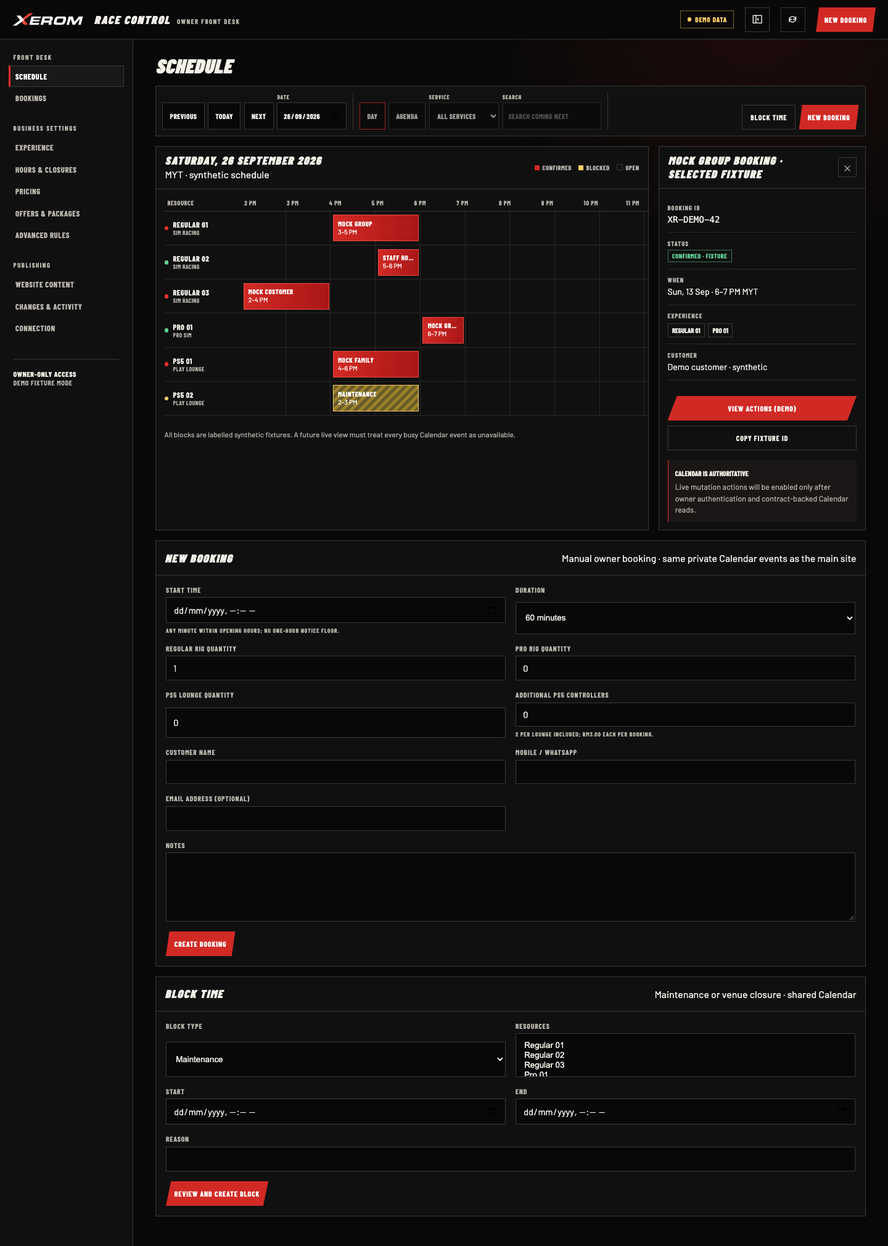
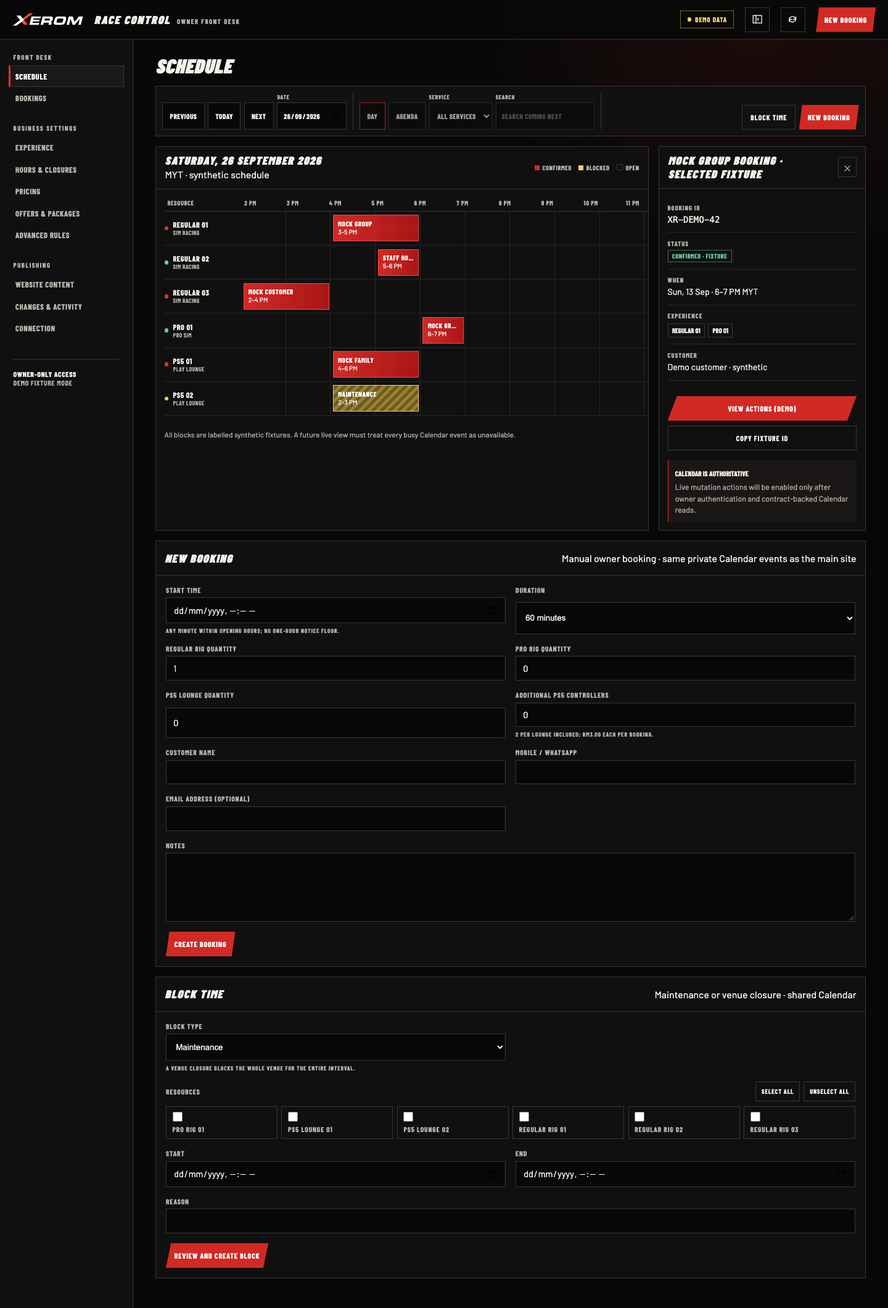
Add block removal and improve the Block time resource picker
Owners could create venue closures and maintenance blocks but had no way to
cancel one, the resource list hardcoded the original six resources (so newly
added rigs never appeared), and there was no way to select or clear every
resource at once.

Remove a block from the Schedule inspector:
- Select a blocked event in the live Schedule to show a "Remove block"
  action; it deletes the block across every affected Calendar resource.
- Add a blockRemovalRequestSchema contract, a DELETE /api/admin/blocks
  route, and a serialized remove-block coordinator command that re-lists
  the resource calendars in the block window and deletes only events
  matching the block marker, type, interval and (new blocks) stored blockId.
- Store a stable blockId on block events and record the removal in the
  activity journal ("Maintenance block removed" / "Venue closure removed").

Block time resource picker:
- Populate resources from the live Business Settings config, alphabetically
  and limited to active Calendar-bound resources, with Select all and
  Unselect all controls and an empty-state hint.
- Venue closures target the shared booking-control calendar and hide the
  per-resource picker.
- Extract the selection/validation logic into a tested block-form helper.

Verified: astro check (0 errors, 0 warnings), 144 unit tests, production
build, Race Control e2e (incl. the new Block time picker test), and a
live-mode check of the inspector remove-block flow.

diff --git a/coordinator/src/index.ts b/coordinator/src/index.ts
@@ -6,7 +6,7 @@ import { CalendarMutationUncertainError, queryFreeBusy, insertEvent, deleteEvent
 import { createBookingId, hashPayload } from "../../src/lib/booking/id";
 import { serviceCore, type ServiceId } from "../../src/config/service-core";
 import { sanitizeCalendarText } from "../../src/lib/booking/text";
-import { blockTimeRequestSchema, bookingActionSchema } from "../../src/lib/race-control/contracts";
+import { blockTimeRequestSchema, blockRemovalRequestSchema, bookingActionSchema } from "../../src/lib/race-control/contracts";
 import { applyGroupedMutation, GroupedMutationError, lifecycleTransitionAllowed, type GroupedMutationStep } from "./grouped-mutation";
 import { NO_SHOW_GRACE_MINUTES, noShowGraceElapsed } from "../../src/lib/race-control/no-show";
 import { SerializedExecutor } from "./serialized-executor";
@@ -39,6 +39,7 @@ export class BookingCoordinator extends DurableObject<Env> {
     if (request.headers.get("x-xerom-command") === "recovery-fences") return this.handleRecoveryFences(request);
     if (request.headers.get("x-xerom-command") === "booking-action") return this.handleBookingAction(request);
     if (request.headers.get("x-xerom-command") === "block-time") return this.handleBlockTime(request);
+    if (request.headers.get("x-xerom-command") === "remove-block") return this.handleRemoveBlock(request);
     if (request.headers.get("x-xerom-command") === "activate-config") return this.handleActivateConfig(request);
     const parsed = bookingRequestSchema.safeParse(await request.json().catch(() => null));
     if (!parsed.success) return reply({ error: "Invalid booking command." }, 400);
@@ -457,7 +458,7 @@ export class BookingCoordinator extends DurableObject<Env> {
             description: `Race Control ${block.blockType}\nReason: ${sanitizeCalendarText(block.reason)}`,
             start: block.start,
             end: block.end,
-            privateProperties: { source: "race-control-owner", blockType: block.blockType, resourceId, status: "blocked", createdAt: new Date().toISOString() },
+            privateProperties: { source: "race-control-owner", blockType: block.blockType, blockId: block.idempotencyKey, resourceId, status: "blocked", createdAt: new Date().toISOString() },
           });
           createdEvents.push({ calendarId: calendarId!, eventId });
         }
@@ -474,6 +475,60 @@ export class BookingCoordinator extends DurableObject<Env> {
         if (activityKey) await this.finishActivity(activityKey, rollbackFailed ? "needs_review" : "failed");
         console.error(JSON.stringify({ message: "block_time_failed", blockType: block.blockType, createdCount: createdEvents.length, rollbackFailed, error: error instanceof Error ? error.message : "unknown" }));
         return reply({ error: rollbackFailed ? "The block failed and needs staff review." : "The block could not be created." }, 503);
+      }
+    });
+  }
+
+  private async handleRemoveBlock(request: Request): Promise<Response> {
+    const parsed = blockRemovalRequestSchema.safeParse(await request.json().catch(() => null));
+    if (!parsed.success) return reply({ error: "Invalid block removal command." }, 400);
+    const removal = parsed.data;
+    return this.mutations.run(async () => {
+      const hash = await hashPayload(removal);
+      const key = `block-removal:${removal.idempotencyKey}`;
+      const prior = await this.ctx.storage.get<BlockAttempt>(key);
+      if (prior) {
+        if (prior.hash !== hash) return reply({ error: "This removal attempt was already used with different details." }, 409);
+        if (prior.status === "complete") return reply({ ...(prior.response as object), replayed: true }, 200);
+        return reply({ error: "This block removal needs staff review before retrying." }, 503);
+      }
+      const env = this.env;
+      const { config } = await resolveRuntimeConfig(env);
+      // Search every resource calendar so a multi-resource block is removed in full, regardless of which row was opened.
+      const searchableCalendarIds = [...new Set([...allCalendarIds(env), ...config.resources.flatMap((resource) => resource.calendarRef ? [resource.calendarRef] : [])])];
+      const startMs = Date.parse(removal.start);
+      const endMs = Date.parse(removal.end);
+      let activityKey: string | undefined;
+      const removedEvents: Array<{ calendarId: string; eventId: string }> = [];
+      try {
+        const candidates = (await Promise.all(searchableCalendarIds.map(async (calendarId) => {
+          const events = await listCalendarEvents(env, calendarId, new Date(startMs - 60_000).toISOString(), new Date(endMs + 60_000).toISOString());
+          const matched = events.filter((event) =>
+            event.status !== "cancelled"
+            && event.privateProperties.source === "race-control-owner"
+            && event.privateProperties.blockType === removal.blockType
+            && Date.parse(event.start) === startMs
+            && Date.parse(event.end) === endMs
+            && (removal.blockId ? event.privateProperties.blockId === removal.blockId : true));
+          return matched.map((event) => ({ calendarId, eventId: event.id, resourceId: event.privateProperties.resourceId ?? null }));
+        }))).flat();
+        if (candidates.length === 0) return reply({ error: "The block could not be found. Refresh the schedule and try again." }, 404);
+        activityKey = await this.beginActivity({ id: `block-removal:${removal.idempotencyKey}`, category: "block", action: removal.blockType, actorId: request.headers.get("x-xerom-actor-id")?.slice(0, 256) || "owner:unknown", resourceIds: removal.resourceIds, start: removal.start, end: removal.end });
+        await this.ctx.storage.put(key, { hash, status: "running" } satisfies BlockAttempt);
+        for (const candidate of candidates) {
+          await deleteEvent(env, candidate.calendarId, candidate.eventId);
+          removedEvents.push({ calendarId: candidate.calendarId, eventId: candidate.eventId });
+        }
+        const response = { blockType: removal.blockType, start: removal.start, end: removal.end, resourceIds: removal.resourceIds, eventCount: removedEvents.length };
+        await this.ctx.storage.put(key, { hash, status: "complete", response, eventIds: removedEvents } satisfies BlockAttempt);
+        await this.finishActivity(activityKey, "succeeded", { resourceIds: removal.resourceIds });
+        return reply(response, 200);
+      } catch (error) {
+        const uncertain = error instanceof CalendarMutationUncertainError;
+        await this.ctx.storage.put(key, { hash, status: uncertain ? "needs_review" : "failed", eventIds: removedEvents } satisfies BlockAttempt);
+        if (activityKey) await this.finishActivity(activityKey, uncertain ? "needs_review" : "failed");
+        console.error(JSON.stringify({ message: "block_removal_failed", blockType: removal.blockType, removedCount: removedEvents.length, error: error instanceof Error ? error.message : "unknown" }));
+        return reply({ error: uncertain ? "The block removal outcome is uncertain and needs staff review." : "The block could not be removed." }, 503);
       }
     });
   }

diff --git a/src/styles/race-control.css b/src/styles/race-control.css
@@ -38,3 +38,4 @@
 .rc-hero-publication{margin-top:1rem}.rc-hero-publication-body{padding:1rem}.rc-hero-publication-body>p{color:var(--rc-muted)}.rc-hero-publication-body .rc-helper{padding:0}.rc-hero-publication .rc-form-actions{flex-wrap:wrap;padding:0}.rc-hero-publication output{display:block;margin-top:.75rem}.rc-output-success{color:var(--rc-green)}.rc-output-error{color:var(--rc-error)}[data-hero-impact]{padding:.75rem;border:1px solid var(--rc-line);color:var(--rc-muted);font-size:.82rem}
 .rc-activity-panel,.rc-recovery-panel{margin-bottom:1rem}.rc-activity-filters{display:flex;flex-wrap:wrap;align-items:end;gap:.75rem;padding:.75rem 1rem;border-bottom:1px solid var(--rc-line)}.rc-activity-filters label{display:grid;min-width:10rem;gap:.25rem;color:var(--rc-muted);font:700 .68rem var(--rc-condensed);letter-spacing:.08em;text-transform:uppercase}.rc-activity-filters select{min-height:2.5rem;padding:.45rem .6rem;border:1px solid var(--rc-line);background:var(--rc-black);color:var(--rc-paper)}.rc-activity-filters output{margin-left:auto;color:var(--rc-muted);font-size:.78rem}.rc-activity-feed,.rc-recovery-feed{padding:.25rem 1rem}.rc-activity-item{display:grid;grid-template-columns:10rem minmax(0,1fr) auto auto;gap:.8rem;align-items:center;padding:.85rem 0;border-bottom:1px solid #292929}.rc-activity-item time{color:var(--rc-muted);font-size:.78rem;font-variant-numeric:tabular-nums}.rc-activity-main{min-width:0}.rc-activity-main strong,.rc-activity-main span{display:block}.rc-activity-main strong,.rc-recovery-item strong{font:700 .82rem var(--rc-condensed);letter-spacing:.04em;text-transform:uppercase}.rc-activity-main span,.rc-recovery-item span{margin-top:.15rem;color:var(--rc-muted);font-size:.76rem;overflow-wrap:anywhere}.rc-activity-state{display:inline-flex;min-height:1.5rem;align-items:center;padding:.2rem .45rem;border:1px solid var(--rc-line);color:var(--rc-muted);font:700 .62rem var(--rc-condensed);letter-spacing:.06em;text-transform:uppercase;white-space:nowrap}.rc-activity-state--succeeded{border-color:#397656;color:var(--rc-green)}.rc-activity-state--failed,.rc-activity-state--needs-review{border-color:#806c32;color:var(--rc-amber)}.rc-activity-state--running{border-color:var(--rc-line);color:var(--rc-paper)}.rc-activity-action{min-height:2rem;padding:.25rem .5rem;font-size:.62rem}.rc-activity-empty,.rc-activity-warning{margin:0;padding:1rem 0;color:var(--rc-muted);font-size:.82rem}.rc-activity-warning{color:var(--rc-amber)}.rc-activity-more{padding:.75rem 1rem}.rc-recovery-item{display:grid;grid-template-columns:minmax(0,1fr) auto;gap:.25rem 1rem;align-items:center;padding:.85rem 0;border-bottom:1px solid #292929}.rc-recovery-item strong,.rc-recovery-item span{grid-column:1}.rc-recovery-item .rc-button{grid-column:2;grid-row:1/3}
 @media(max-width:700px){.rc-activity-filters{display:grid;grid-template-columns:1fr 1fr}.rc-activity-filters label{min-width:0}.rc-activity-filters output{grid-column:1/-1;margin:0}.rc-activity-item{grid-template-columns:minmax(0,1fr) auto;gap:.35rem .65rem}.rc-activity-item time,.rc-activity-main{grid-column:1}.rc-activity-item time{grid-row:1}.rc-activity-main{grid-row:2}.rc-activity-state{grid-column:2;grid-row:1}.rc-activity-action{grid-column:2;grid-row:2}.rc-recovery-item{grid-template-columns:minmax(0,1fr)}.rc-recovery-item strong,.rc-recovery-item span,.rc-recovery-item .rc-button{grid-column:1;grid-row:auto;justify-self:start}}
+.rc-button-danger{border-color:#7a2b28;color:#ff8a86}.rc-button-danger:hover{border-color:#c23832;background:#c23832;color:#fff}.rc-resource-picker{display:grid;gap:.5rem}.rc-resource-picker[hidden]{display:none}.rc-resource-picker-head{display:flex;flex-wrap:wrap;align-items:center;justify-content:space-between;gap:.5rem;color:var(--rc-muted);font:700 .72rem var(--rc-condensed);letter-spacing:.08em;text-transform:uppercase}.rc-resource-picker-tools{display:flex;gap:.4rem}.rc-resource-choices{display:grid;grid-template-columns:repeat(auto-fill,minmax(11rem,1fr));gap:.4rem}.rc-resource-choice{display:flex;align-items:center;gap:.5rem;padding:.5rem .6rem;border:1px solid var(--rc-line);color:var(--rc-paper);font:400 .85rem var(--rc-body);letter-spacing:normal;text-transform:none;cursor:pointer}.rc-resource-choice:hover{border-color:var(--rc-muted)}.rc-resource-choice input{width:1rem;height:1rem;margin:0;accent-color:var(--rc-action)}.rc-resource-picker .rc-helper{padding:0}

diff --git a/tests/race-control/block-form.test.ts b/tests/race-control/block-form.test.ts
@@ -1,0 +1,62 @@
+import { describe, expect, it } from "vitest";
+import { activeBlockResources, buildBlockDraft, normalizeBlockResources } from "@/lib/race-control/block-form";
+import type { ConfigRevision } from "@/lib/config/schema";
+
+const config = (resources: Array<{ resourceId: string; displayName: string; lifecycle: "active" | "inactive"; calendarRef?: string | null; serviceId: "regular-sim" | "pro-sim" | "ps5" }>): ConfigRevision => ({ resources } as unknown as ConfigRevision);
+
+describe("Race Control block time form", () => {
+  it("lists only active, calendar-bound resources alphabetically so newly added rigs appear", () => {
+    const options = activeBlockResources(config([
+      { resourceId: "regular-01", displayName: "Regular Rig 01", lifecycle: "active", calendarRef: "cal-1", serviceId: "regular-sim" },
+      { resourceId: "regular-02", displayName: "Regular Rig 02", lifecycle: "active", calendarRef: "cal-2", serviceId: "regular-sim" },
+      { resourceId: "regular-03", displayName: "Regular Rig 03", lifecycle: "active", calendarRef: "cal-3", serviceId: "regular-sim" },
+      { resourceId: "pro-01", displayName: "Pro Rig 01", lifecycle: "active", calendarRef: "cal-4", serviceId: "pro-sim" },
+      { resourceId: "ps5-01", displayName: "PS5 Lounge 01", lifecycle: "active", calendarRef: "cal-5", serviceId: "ps5" },
+      { resourceId: "ps5-02", displayName: "PS5 Lounge 02", lifecycle: "active", calendarRef: "cal-6", serviceId: "ps5" },
+      { resourceId: "regular-04", displayName: "Regular Rig 04", lifecycle: "active", calendarRef: "cal-7", serviceId: "regular-sim" },
+      { resourceId: "regular-05", displayName: "Regular Rig 05", lifecycle: "inactive", calendarRef: "cal-8", serviceId: "regular-sim" },
+      { resourceId: "regular-06", displayName: "Regular Rig 06", lifecycle: "active", calendarRef: null, serviceId: "regular-sim" },
+    ]));
+    expect(options.map((resource) => resource.resourceId)).toEqual([
+      "pro-01",
+      "ps5-01",
+      "ps5-02",
+      "regular-01",
+      "regular-02",
+      "regular-03",
+      "regular-04",
+    ]);
+  });
+
+  it("targets the booking-control calendar for a venue closure regardless of selection", () => {
+    expect(normalizeBlockResources("venue-closure", ["regular-01"])).toEqual(["booking-control"]);
+    expect(normalizeBlockResources("maintenance", ["regular-01", "regular-01", "ps5-02"])).toEqual(["regular-01", "ps5-02"]);
+  });
+
+  it("rejects an empty resource selection", () => {
+    const result = buildBlockDraft({ blockType: "maintenance", selectedResourceIds: [], start: "2026-09-26T20:00", end: "2026-09-26T21:00", reason: "Repair" });
+    expect(result).toEqual({ ok: false, message: "Select at least one resource to block." });
+  });
+
+  it("requires the end to be after the start", () => {
+    const result = buildBlockDraft({ blockType: "maintenance", selectedResourceIds: ["regular-01"], start: "2026-09-26T21:00", end: "2026-09-26T20:00", reason: "Repair" });
+    expect(result.ok).toBe(false);
+    if (!result.ok) expect(result.message).toBe("The end time must be after the start time.");
+  });
+
+  it("requires a reason", () => {
+    const result = buildBlockDraft({ blockType: "maintenance", selectedResourceIds: ["regular-01"], start: "2026-09-26T20:00", end: "2026-09-26T21:00", reason: "   " });
+    expect(result).toEqual({ ok: false, message: "Add a reason for the block." });
+  });
+
+  it("returns a normalized request for a valid maintenance block", () => {
+    const result = buildBlockDraft({ blockType: "maintenance", selectedResourceIds: ["regular-01", "ps5-01"], start: "2026-09-26T20:00", end: "2026-09-26T21:00", reason: "Screen swap" });
+    expect(result).toEqual({ ok: true, request: { blockType: "maintenance", resourceIds: ["regular-01", "ps5-01"], start: "2026-09-26T20:00", end: "2026-09-26T21:00", reason: "Screen swap" } });
+  });
+
+  it("returns a booking-control request for a valid venue closure", () => {
+    const result = buildBlockDraft({ blockType: "venue-closure", selectedResourceIds: [], start: "2026-09-26T20:00", end: "2026-09-26T22:00", reason: "Private event" });
+    expect(result.ok).toBe(true);
+    if (result.ok) expect(result.request.resourceIds).toEqual(["booking-control"]);
+  });
+});

diff --git a/tests/e2e/race-control.spec.ts b/tests/e2e/race-control.spec.ts
@@ -36,6 +36,7 @@ test("Activity history separates audited actions from recovery holds without cus
       { id: "action:test-action", category: "booking", action: "check-in", state: "succeeded", actorId: "access:owner-subject", createdAt: "2026-09-26T10:00:00.000Z", updatedAt: "2026-09-26T10:00:01.000Z", bookingId: "XR-ACTIVITY01", resourceIds: ["regular-01"] },
       { id: "config:test-publish", category: "settings", action: "publish", state: "succeeded", actorId: "access:owner-subject", createdAt: "2026-09-26T09:00:00.000Z", updatedAt: "2026-09-26T09:00:00.000Z", revisionId: "rev-activity01" },
       { id: "block:test-block", category: "block", action: "maintenance", state: "needs_review", actorId: "access:owner-subject", createdAt: "2026-09-26T08:00:00.000Z", updatedAt: "2026-09-26T08:00:00.000Z", resourceIds: ["pro-01"], start: "2026-09-27T08:00:00.000Z", end: "2026-09-27T09:00:00.000Z" },
+      { id: "block-removal:test-removal", category: "block", action: "venue-closure", state: "succeeded", actorId: "access:owner-subject", createdAt: "2026-09-26T07:00:00.000Z", updatedAt: "2026-09-26T07:00:00.000Z", resourceIds: ["booking-control"], start: "2026-09-27T08:00:00.000Z", end: "2026-09-27T09:00:00.000Z" },
     ],
     nextCursor: null,
     recoveryHolds: [{ operationId: "block:test-block", resourceIds: ["pro-01"], start: "2026-09-27T08:00:00.000Z", end: "2026-09-27T09:00:00.000Z", createdAt: "2026-09-26T08:00:00.000Z" }],
@@ -47,6 +48,7 @@ test("Activity history separates audited actions from recovery holds without cus
   await expect(page.getByText("Booking check-in", { exact: true })).toBeVisible();
   await expect(page.getByText("Business settings published", { exact: true })).toBeVisible();
   await expect(page.getByText("Maintenance block created", { exact: true })).toBeVisible();
+  await expect(page.getByText("Venue closure removed", { exact: true })).toBeVisible();
   await expect(page.getByText("Recovery hold · pro-01", { exact: true })).toBeVisible();
   await expect(page.getByText(/By Owner/).first()).toBeVisible();
   await expect(page.locator("body")).not.toContainText("Test Customer");
@@ -173,4 +175,30 @@ test("Hero upload page reviews and publishes the saved draft", async ({ page }) 
   await page.getByRole("button", { name: "Publish reviewed draft" }).click();
   await expect(page.locator("[data-hero-publish-result]")).toContainText("now live");
   expect(publishCount).toBe(1);
+});
+
+test("Block time lists every active resource alphabetically with select and unselect all", async ({ page }) => {
+  await page.goto("/race-control/schedule");
+  const section = page.locator("#block-time");
+  await expect(section.getByRole("heading", { name: "Block time" })).toBeVisible();
+  const resourceLabels = section.locator(".rc-resource-choice span");
+  await expect(resourceLabels).toHaveText(["Pro Rig 01", "PS5 Lounge 01", "PS5 Lounge 02", "Regular Rig 01", "Regular Rig 02", "Regular Rig 03"]);
+
+  const boxes = section.locator('input[name="resourceIds"]');
+  await expect(boxes).toHaveCount(6);
+  await expect(boxes.first()).not.toBeChecked();
+
+  await section.getByRole("button", { name: "Select all", exact: true }).click();
+  for (let index = 0; index < 6; index += 1) await expect(boxes.nth(index)).toBeChecked();
+
+  await section.getByRole("button", { name: "Unselect all", exact: true }).click();
+  for (let index = 0; index < 6; index += 1) await expect(boxes.nth(index)).not.toBeChecked();
+
+  // A venue closure targets the booking-control calendar, so the per-resource picker is replaced.
+  await section.getByLabel("Block type").selectOption("venue-closure");
+  await expect(section.locator("[data-rc-resource-picker]")).toBeHidden();
+  await expect(section.locator("[data-rc-venue-closure-note]")).toBeVisible();
+  await section.getByLabel("Block type").selectOption("maintenance");
+  await expect(section.locator("[data-rc-resource-picker]")).toBeVisible();
+  expect(await page.evaluate(() => document.documentElement.scrollWidth - document.documentElement.clientWidth)).toBeLessThanOrEqual(1);
 });

diff --git a/src/lib/race-control/block-form.ts b/src/lib/race-control/block-form.ts
@@ -1,0 +1,65 @@
+import type { ConfigRevision } from "@/lib/config/schema";
+import { orderScheduleResources } from "./timeline";
+
+export interface BlockResourceOption {
+  resourceId: string;
+  displayName: string;
+}
+
+/**
+ * The resources an owner can target with a maintenance block: active resources that
+ * are bound to a Calendar, ordered alphabetically so recently added rigs slot in place.
+ */
+export function activeBlockResources(config: ConfigRevision): BlockResourceOption[] {
+  return orderScheduleResources(
+    config.resources
+      .filter((resource) => resource.lifecycle === "active" && resource.calendarRef)
+      .map((resource) => ({ resourceId: resource.resourceId, displayName: resource.displayName })),
+  );
+}
+
+export type BlockKind = "maintenance" | "venue-closure";
+
+export interface BlockDraft {
+  blockType: BlockKind;
+  resourceIds: string[];
+  start: string;
+  end: string;
+  reason: string;
+}
+
+export interface BlockDraftInput {
+  blockType: string;
+  selectedResourceIds: string[];
+  start: string;
+  end: string;
+  reason: string;
+}
+
+export type BlockDraftResult =
+  | { ok: true; request: BlockDraft }
+  | { ok: false; message: string };
+
+/** A venue closure always targets the shared booking-control calendar, ignoring resource selection. */
+export function normalizeBlockResources(blockType: string, selectedResourceIds: string[]): string[] {
+  return blockType === "venue-closure" ? ["booking-control"] : [...new Set(selectedResourceIds)];
+}
+
+/**
+ * Validates the owner's block inputs against the same rules the API enforces, so the form
+ * can give a precise message before the request is sent.
+ */
+export function buildBlockDraft(input: BlockDraftInput): BlockDraftResult {
+  const blockType: BlockKind = input.blockType === "venue-closure" ? "venue-closure" : "maintenance";
+  const resourceIds = normalizeBlockResources(blockType, input.selectedResourceIds);
+  if (resourceIds.length === 0) return { ok: false, message: "Select at least one resource to block." };
+  if (resourceIds.length > 64) return { ok: false, message: "Select 64 resources or fewer." };
+  const start = input.start.trim();
+  const end = input.end.trim();
+  if (!start || !end) return { ok: false, message: "Choose a start and end time for the block." };
+  if (Date.parse(end) <= Date.parse(start)) return { ok: false, message: "The end time must be after the start time." };
+  const reason = input.reason.trim();
+  if (!reason) return { ok: false, message: "Add a reason for the block." };
+  if (reason.length > 500) return { ok: false, message: "Keep the reason to 500 characters or fewer." };
+  return { ok: true, request: { blockType, resourceIds, start, end, reason } };
+}

diff --git a/src/pages/api/admin/blocks.ts b/src/pages/api/admin/blocks.ts
@@ -1,6 +1,6 @@
 import type { APIRoute } from "astro";
 import { env as cloudflareEnv } from "cloudflare:workers";
-import { blockTimeRequestSchema } from "@/lib/race-control/contracts";
+import { blockTimeRequestSchema, blockRemovalRequestSchema } from "@/lib/race-control/contracts";
 import { verifyOwnerMutationOrigin } from "@/lib/security/owner";
 
 export const prerender = false;
@@ -19,6 +19,24 @@ export const POST: APIRoute = async ({ request, locals }) => {
   const response = await coordinator.get(id).fetch("https://coordinator.internal/block-time", {
     method: "POST",
     headers: { "content-type": "application/json", "x-xerom-command": "block-time", "x-xerom-actor-id": locals.owner!.actorId },
+    body: JSON.stringify(parsed.data),
+  });
+  return new Response(response.body, { status: response.status, headers });
+};
+
+export const DELETE: APIRoute = async ({ request, locals }) => {
+  if (!verifyOwnerMutationOrigin(request)) return new Response(JSON.stringify({ error: { code: "CSRF_REJECTED", message: "Refresh Race Control and try again.", retryable: false } }), { status: 403, headers });
+  if (!request.headers.get("content-type")?.includes("application/json")) return new Response(JSON.stringify({ error: { code: "CONTENT_TYPE", message: "Send JSON.", retryable: false } }), { status: 415, headers });
+  if (Number(request.headers.get("content-length") ?? 0) > 12_000) return new Response(JSON.stringify({ error: { code: "TOO_LARGE", message: "The block removal request is too large.", retryable: false } }), { status: 413, headers });
+  const parsed = blockRemovalRequestSchema.safeParse(await request.json().catch(() => null));
+  if (!parsed.success) return new Response(JSON.stringify({ error: { code: "INVALID_BLOCK_REMOVAL", message: "Review the block interval and affected resources.", retryable: false } }), { status: 400, headers });
+  const env = cloudflareEnv as typeof cloudflareEnv & CloudflareEnv;
+  const coordinator = env.BOOKING_COORDINATOR;
+  if (!coordinator) return new Response(JSON.stringify({ error: { code: "COORDINATOR_UNAVAILABLE", message: "Booking coordination is unavailable.", retryable: true } }), { status: 503, headers });
+  const id = coordinator.idFromName("xerom-global-booking-coordinator");
+  const response = await coordinator.get(id).fetch("https://coordinator.internal/remove-block", {
+    method: "POST",
+    headers: { "content-type": "application/json", "x-xerom-command": "remove-block", "x-xerom-actor-id": locals.owner!.actorId },
     body: JSON.stringify(parsed.data),
   });
   return new Response(response.body, { status: response.status, headers });

diff --git a/tests/race-control/contracts.test.ts b/tests/race-control/contracts.test.ts
@@ -2,7 +2,7 @@ import { describe, expect, it } from "vitest";
 import { createSeedConfig } from "@/lib/config/seed";
 import { configRevisionSchema } from "@/lib/config/schema";
 import { publicConfigSchema, toPublicConfig } from "@/lib/config/public-projection";
-import { blockTimeRequestSchema, bookingActionSchema, operationCommandSchema, quoteRequestSchema } from "@/lib/race-control/contracts";
+import { blockTimeRequestSchema, blockRemovalRequestSchema, bookingActionSchema, operationCommandSchema, quoteRequestSchema } from "@/lib/race-control/contracts";
 
 const syntheticCalendarRefs = {
   resources: {
@@ -53,5 +53,12 @@ describe("Race Control shared contracts", () => {
     expect(operationCommandSchema.safeParse({ type: "activate-config", opId: "operation_123", idempotencyKey: "attempt_123", expectedRevision: "rev-1", draftEtag: "draft-etag-1", reviewToken: "review-token-12345", payloadHash: "a".repeat(64) }).success).toBe(true);
     expect(blockTimeRequestSchema.safeParse({ blockType: "maintenance", resourceIds: ["regular-01"], start: "2026-09-16T20:00:00+08:00", end: "2026-09-16T21:00:00+08:00", reason: "Fixture maintenance", idempotencyKey: "attempt_123" }).success).toBe(true);
     expect(blockTimeRequestSchema.safeParse({ blockType: "venue-closure", resourceIds: ["regular-01"], start: "2026-09-16T20:00:00+08:00", end: "2026-09-16T21:00:00+08:00", reason: "Fixture closure", idempotencyKey: "attempt_123" }).success).toBe(false);
+  });
+
+  it("accepts block removals with an optional block id and rejects venue closures off the control calendar", () => {
+    expect(blockRemovalRequestSchema.safeParse({ blockId: "attempt_123", blockType: "maintenance", resourceIds: ["regular-01"], start: "2026-09-16T20:00:00+08:00", end: "2026-09-16T21:00:00+08:00", idempotencyKey: "attempt_456" }).success).toBe(true);
+    expect(blockRemovalRequestSchema.safeParse({ blockType: "maintenance", resourceIds: ["regular-01"], start: "2026-09-16T20:00:00+08:00", end: "2026-09-16T21:00:00+08:00", idempotencyKey: "attempt_456" }).success).toBe(true);
+    expect(blockRemovalRequestSchema.safeParse({ blockType: "venue-closure", resourceIds: ["regular-01"], start: "2026-09-16T20:00:00+08:00", end: "2026-09-16T21:00:00+08:00", idempotencyKey: "attempt_456" }).success).toBe(false);
+    expect(blockRemovalRequestSchema.safeParse({ blockType: "maintenance", resourceIds: ["regular-01"], start: "2026-09-16T21:00:00+08:00", end: "2026-09-16T20:00:00+08:00", idempotencyKey: "attempt_456" }).success).toBe(false);
   });
 });

diff --git a/src/lib/race-control/contracts.ts b/src/lib/race-control/contracts.ts
@@ -98,3 +98,17 @@ export const blockTimeRequestSchema = z.object({
 });
 
 export type BlockTimeRequest = z.infer<typeof blockTimeRequestSchema>;
+
+export const blockRemovalRequestSchema = z.object({
+  blockId: z.string().min(1).max(128).nullable().optional(),
+  blockType: z.enum(["maintenance", "venue-closure"]),
+  resourceIds: z.array(z.string().min(1).max(96)).min(1).max(64),
+  start: isoInstant,
+  end: isoInstant,
+  idempotencyKey: opaqueId,
+}).strict().superRefine((value, context) => {
+  if (Date.parse(value.end) <= Date.parse(value.start)) context.addIssue({ code: "custom", path: ["end"], message: "End must be after start." });
+  if (value.blockType === "venue-closure" && !value.resourceIds.includes("booking-control")) context.addIssue({ code: "custom", path: ["resourceIds"], message: "Venue closures must target the Booking Control calendar." });
+});
+
+export type BlockRemovalRequest = z.infer<typeof blockRemovalRequestSchema>;

diff --git a/docs/agent/DECISIONS.md b/docs/agent/DECISIONS.md
@@ -277,3 +277,8 @@ Use a single booking-coordinator Durable Object for final booking serialization 
 - Keep the activity feed and recovery holds in the coordinator's existing Durable Object storage; do not add a database or separate event service. Show the most recent operation records first and link recovery items to the existing Schedule or Bookings workflow.
 - Retain completed/failed summaries for 30 days and keep `running` / `needs_review` entries beyond that window. Keep published-settings history by walking the existing immutable R2 revision parent chain; those non-PII revisions retain the authoritative record.
 - Older booking actions are not reconstructed from the current Calendar state. Calendar remains the booking record and the Activity page states this historical boundary.
+## 2026-09-27 — Owner block management
+
+- Remove blocks from the selected Schedule block (the live inspector) rather than a separate management screen: the owner already opens a block to inspect it, and every affected resource row shares one block so a single action should clear it everywhere.
+- Deleting a block removes its Calendar events outright (freeing capacity immediately) instead of marking them cancelled. The coordinator re-lists every resource calendar in the block window and deletes only events carrying the Race Control block marker, block type, exact interval, and (for blocks created after this change) the stored `blockId`. Blocks created earlier still match on type and interval.
+- Populate the block form's resources from the live Business Settings config, alphabetically and limited to active Calendar-bound resources, so newly added rigs appear automatically. Venue closures always target the shared booking-control calendar and hide the per-resource picker. Select all / Unselect all manage the full selection in one step.
